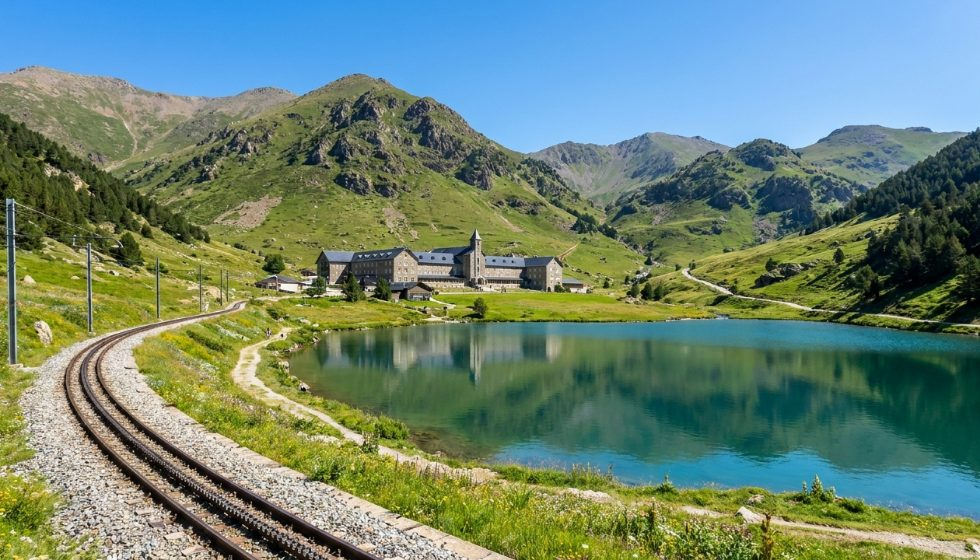
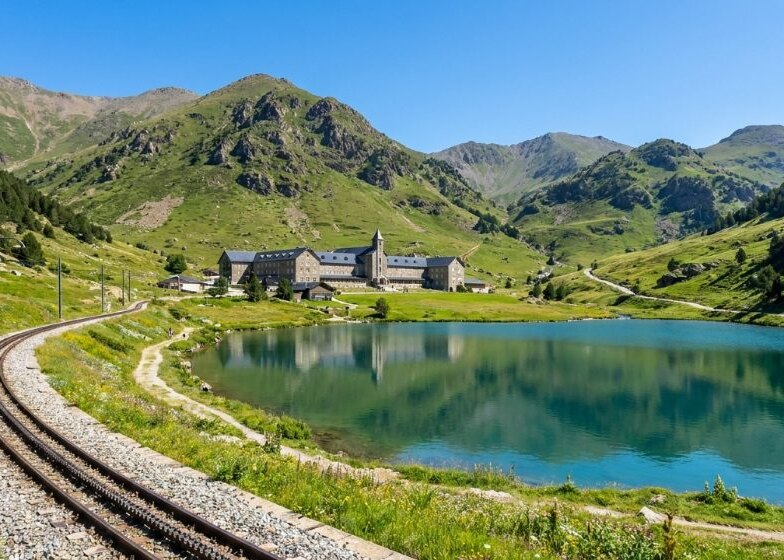
Trencaclosques: les fotos apaïsades, de 7 × 5 peces en lloc de 7 × 4
L'usuari trobava que les fotos apaïsades, amb només quatre fileres de
peces, eren massa fàcils. Fer les peces més petites no anava bé: a 320 px ja
fan 43 px, i més petites costarien d'agafar amb el dit. Per això les disset
que encara no han sortit (del #27, el 20 de novembre, fins al #43) s'han
retallat una desena part per cada costat, a 784 × 560, i fan 7 × 5 peces:
35, com el trencaclosques dibuixat, i de la mateixa mida que abans. Cap no
perd res important pels costats.

Les tres que ja han sortit (Montserrat, el delta i el Pedraforca, que és la
d'avui) es queden de 7 × 4, que algú ja les pot haver fet. Les de Taradell
ja eren de 6 × 6.

Claude-Session: https://claude.ai/code/session_01KrPPCHVvtTXjrWEZj9T731

diff --git a/trencaclosques.html b/trencaclosques.html
@@ -217,12 +217,14 @@ const FOTOS=[
   ['taradell-sant-genis','Sant Genís (Taradell)',[6,6]],['taradell-sant-joan','Sant Joan del Prat (Taradell)',[6,6]],
   ['taradell-sant-quirze','Sant Quirze de Subiradells (Taradell)',[6,6]],['taradell-torre-don-carles','la torre de Don Carles (Taradell)',[6,6]],
   // la resta de la primera tanda i la segona (la de Girona era un cartell: es va
-  // retallar per dins del marc)
-  ['cap-de-creus','el cap de Creus'],['fageda',"la Fageda d'en Jordà"],['mont-rebei','el congost de Mont-rebei'],['penedes','les vinyes del Penedès'],
-  ['sant-maurici','l\'estany de Sant Maurici'],['montseny','el Montseny'],['nuria','la vall de Núria'],['sagrada-familia','la Sagrada Família'],
-  ['cadaques','Cadaqués'],['besalu','el pont de Besalú'],['tossa','la vila vella de Tossa'],['taull','Sant Climent de Taüll'],
-  ['girona',"les cases de l'Onyar"],['siurana','Siurana'],['sitges','Sitges'],['rupit','el pont penjat de Rupit'],
-  ['park-guell','el park Güell']];
+  // retallar per dins del marc). Amb 7 × 4 només hi havia quatre fileres i
+  // l'usuari les trobava massa fàcils: es van retallar una desena part per cada
+  // costat (784 × 560) i fan 7 × 5 peces, 35 com el dibuixat i de la mateixa mida.
+  ['cap-de-creus','el cap de Creus',[7,5]],['fageda',"la Fageda d'en Jordà",[7,5]],['mont-rebei','el congost de Mont-rebei',[7,5]],['penedes','les vinyes del Penedès',[7,5]],
+  ['sant-maurici','l\'estany de Sant Maurici',[7,5]],['montseny','el Montseny',[7,5]],['nuria','la vall de Núria',[7,5]],['sagrada-familia','la Sagrada Família',[7,5]],
+  ['cadaques','Cadaqués',[7,5]],['besalu','el pont de Besalú',[7,5]],['tossa','la vila vella de Tossa',[7,5]],['taull','Sant Climent de Taüll',[7,5]],
+  ['girona',"les cases de l'Onyar",[7,5]],['siurana','Siurana',[7,5]],['sitges','Sitges',[7,5]],['rupit','el pont penjat de Rupit',[7,5]],
+  ['park-guell','el park Güell',[7,5]]];
 // Sense res més, 7 × 4 peces (les apaïsades); si la foto en porta, les seves.
 const FOTO_DES_DE=14,COLS_FOTO=7,FILES_FOTO=4;
 const graellaFoto=f=>f[2]||[COLS_FOTO,FILES_FOTO];

diff --git a/records.js b/records.js
@@ -34,7 +34,7 @@ const Records = (() => {
     'centipede.html':     ['2026-11-05T13:31Z', 'bolets de debò, un centpeus amb potes i un gnom'],
     'tetris.html':        ['2026-11-05T13:32Z', 'peces amb relleu'],
     'sopa.html':          ['2026-11-05T17:22Z', 'ara les paraules van de costat, de dalt a baix i en diagonal'],
-    'trencaclosques.html': ['2026-11-09T10:15Z', 'fotos de Taradell, una cada dia del 10 al 19 de novembre'],
+    'trencaclosques.html': ['2026-11-09T11:00Z', 'fotos de Taradell del 10 al 19 de novembre, i més peces a les fotos'],
     'tresor.html':        ['2026-11-07T22:10Z', 'setze proves en lloc de deu, més difícils i amb només dues pistes'],
   };
   const DIES_NOVETAT = 14;

diff --git a/sw.js b/sw.js
@@ -1,4 +1,4 @@
-const CACHE = 'jocs-v167';
+const CACHE = 'jocs-v168';
 const FILES = [
   '/Jocs/',
   '/Jocs/index.html',

diff --git a/CLAUDE.md b/CLAUDE.md
@@ -1378,11 +1378,16 @@ trencaclosques. N'hi ha dos:
   `graellaFoto`). Es van retallar 44 px per sota, on hi havia la marca de
   l'app, i 22 per cada costat, i reduir a 840 × 840. Retallades apaïsades
   com les altres, haurien perdut els campanars i les torres. La de Girona era un cartell amb
-  marc i lletres: es va retallar per dins del marc. Són
-  apaïsades, i aquells dies el trencaclosques fa **7 × 4 peces** quadrades
-  (`COLS_FOTO`, `FILES_FOTO`). Es van retallar a 7 per 4 (així la marca de
-  l'app, a baix a la dreta, queda fora) i reduir a 980 × 560 en JPEG: de 2 MB
-  a uns 130 KB cada una. Es baixen el dia que toca (`imatgeDia`, que per als
+  marc i lletres: es va retallar per dins del marc. Les altres vint són
+  apaïsades. Es van retallar a 7 per 4 (així la marca de l'app, a baix a la
+  dreta, queda fora) i reduir a 980 × 560 en JPEG: de 2 MB a uns 130 KB cada
+  una. Al principi feien **7 × 4 peces** (`COLS_FOTO`, `FILES_FOTO`), però amb
+  quatre fileres l'usuari les trobava massa fàcils: les disset que encara no
+  havien sortit (#27 a #43) es van retallar una desena part per cada costat,
+  a 784 × 560, i fan **7 × 5** (35, com el dibuixat). Les peces no es van fer
+  més petites: a 320 px ja fan 43 px, i més petites costarien d'agafar amb el
+  dit. Les tres primeres (#14 a #16) es van quedar de 7 × 4, que ja havien
+  sortit. Es baixen el dia que toca (`imatgeDia`, que per als
   dibuixats torna el `paisatge`) i el `sw.js` les desa; sense connexió i sense
   haver-la baixat, ho diu (`senseFoto`). El menú diu que és feta amb IA.
   **Per afegir-ne**, al final de `FOTOS`, que les que ja han sortit no canviïn
